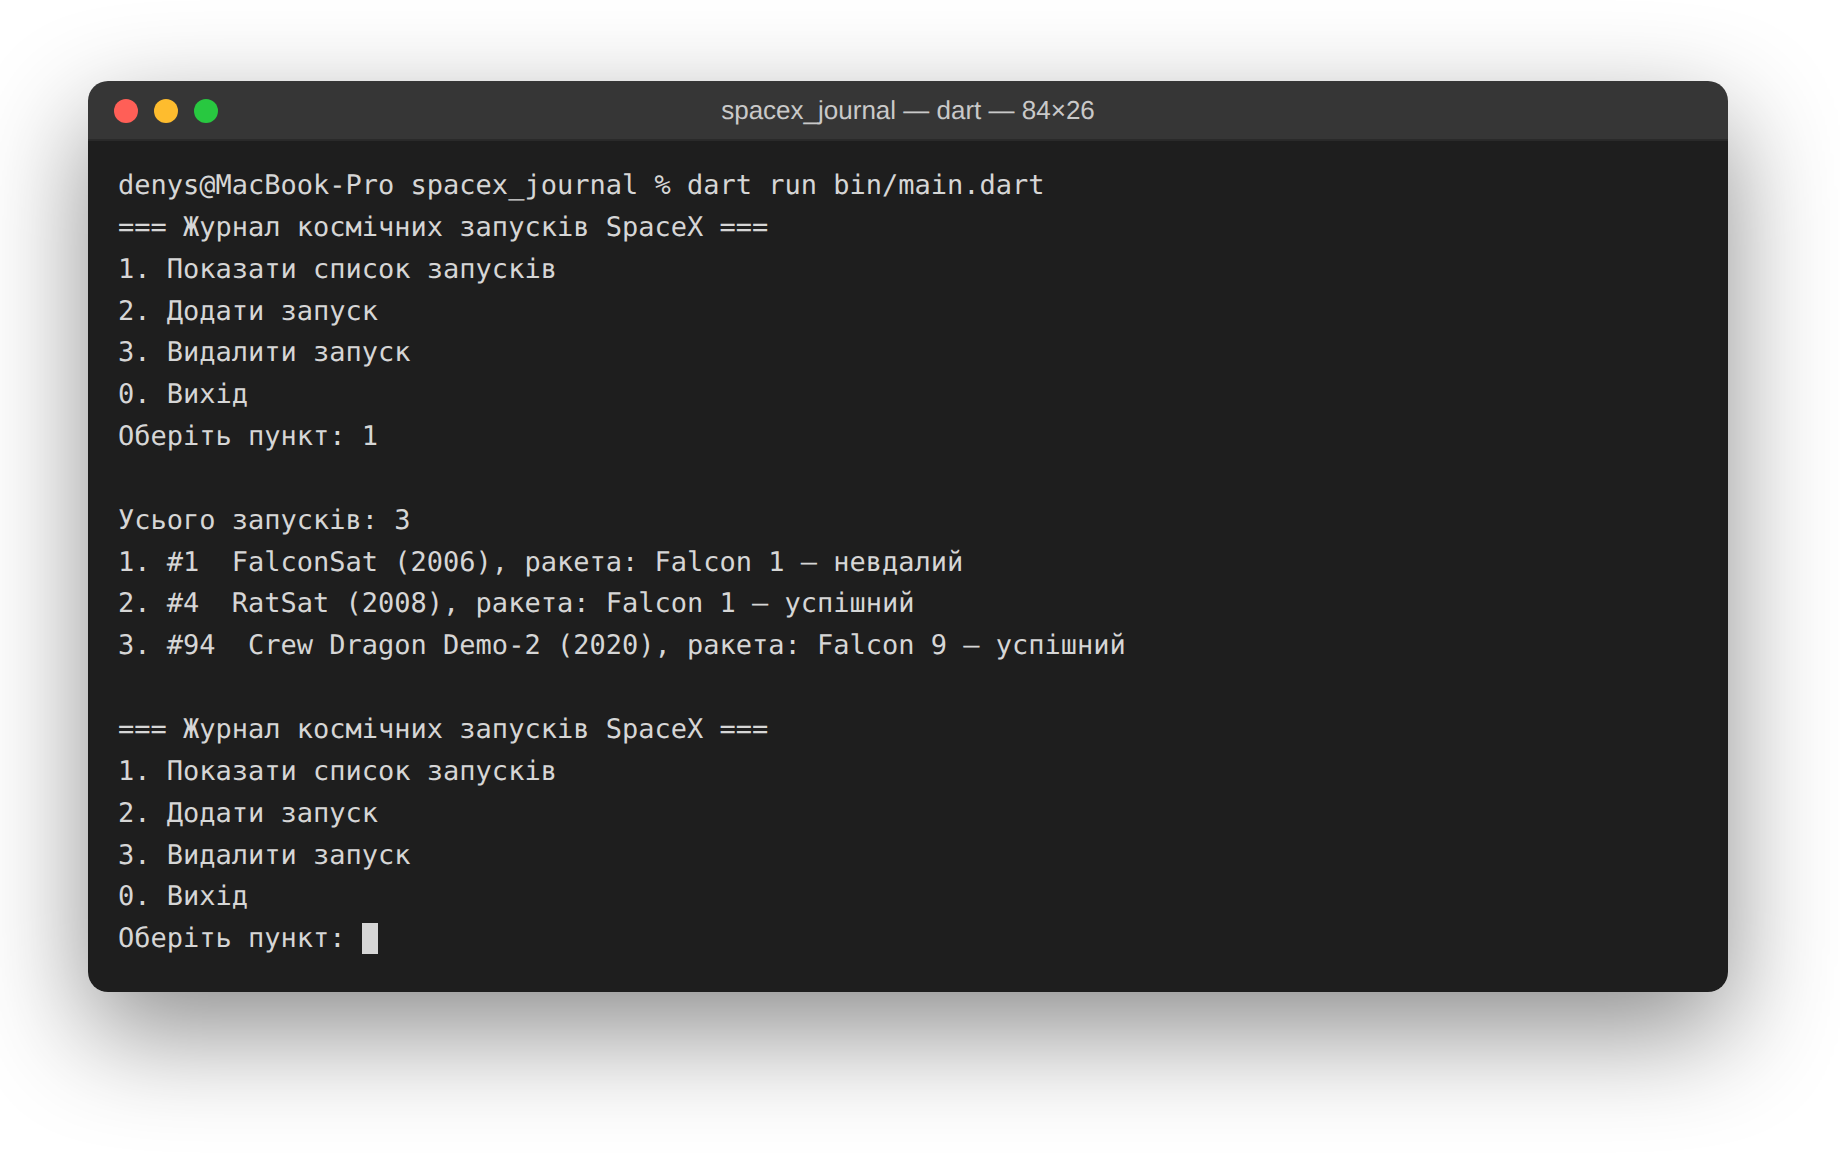
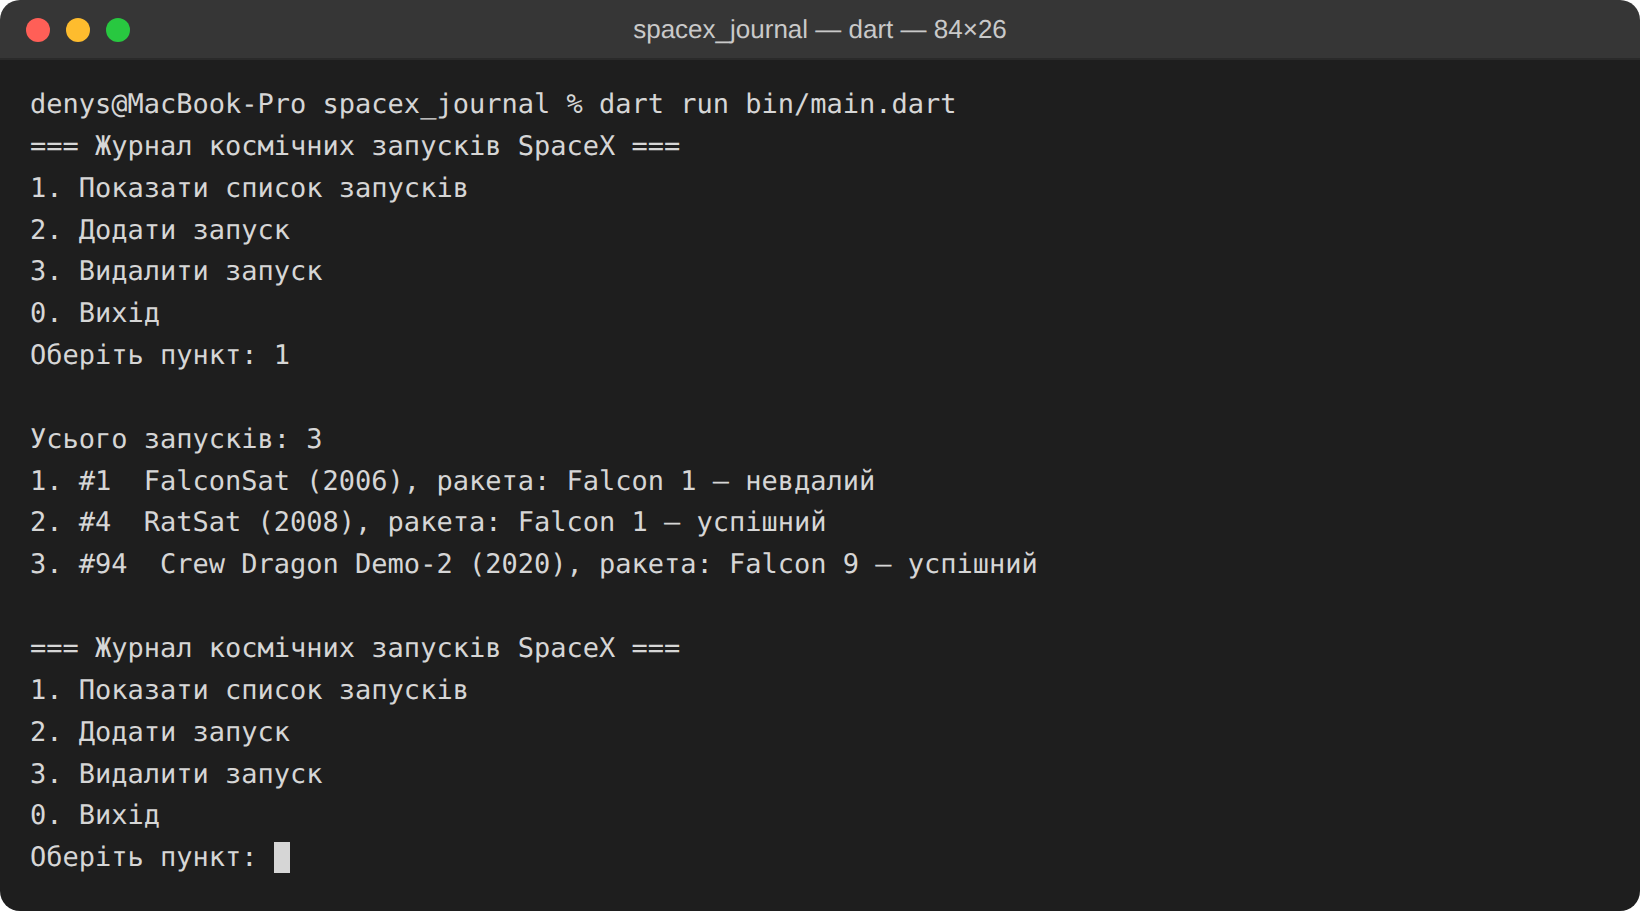
Оновити скріншоти та додати примітку про рівень виконання

diff --git a/README.md b/README.md
@@ -35,6 +35,21 @@ dart run bin/main.dart
 
 ![Видалення та вихід](screens/3.png)
 
+## Рівень виконання
+
+Роботу виконано на рівень **«задовільно»**: одна модель предметної області,
+текстове меню (показати / додати / видалити / вихід), серіалізація
+`toJson()` / `fromJson()`, збереження та відновлення даних із файлу
+`data.json`, стійкість до некоректного вводу.
+
+Рівень **«добре»** додатково вимагає отримання даних із зовнішнього
+SpaceX API v4 через пакет `http`. На момент виконання роботи цей сервіс
+недоступний: запит до `https://api.spacexdata.com/v4/launches` повертає
+помилку **HTTP 525 (SSL handshake failed)** на боці Cloudflare/SpaceX,
+тож отримати реальні дані з API не вдалося. Відповідно до вимог, за
+недоступності сервісу застосунок коректно продовжує працювати з
+локальними даними у файлі `data.json`.
+
 ## Використане API
 
 Варіант передбачає предметну область SpaceX API v4
